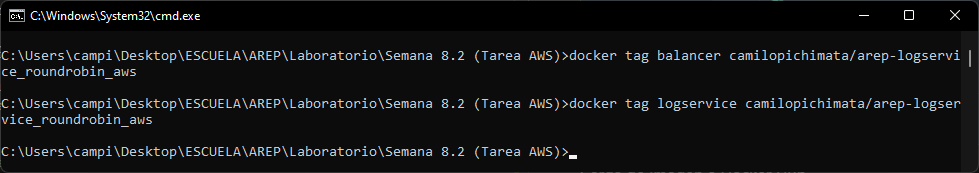
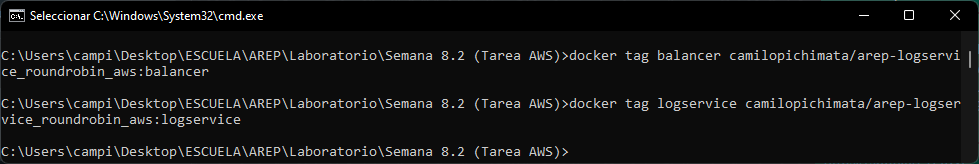
Actualización README.md

diff --git a/README.md b/README.md
@@ -47,7 +47,72 @@ Con el comando `docker images` se puede revisar que las imagenes fueron contruid
 
 ![](img/docker_images.png)
 
-Luego de creadas las imágenes mediante el archivo [docker-compose.yml]() se genera una configuración auntomática para docker al ejecutar el siguiente comando: 
+Luego de creadas las imágenes, se genera una configuración auntomática usando el archivo ***docker-compose.yml*** que se muestra a continuación:
+
+```yml
+# docker-compose.yml
+version: '2'
+
+services:
+    balancer:
+        environment:
+            - PORT=34000
+        build:
+            context: ./Balancer
+            dockerfile: Dockerfile
+        container_name: balancer
+        ports:
+            - "34000:4567"
+        links:
+            - logservice1
+            - logservice2
+            - logservice3
+
+    logservice1:
+        environment:
+            - PORT=34001
+        build:
+            context: ./LogService
+            dockerfile: Dockerfile
+        container_name: logservice1
+        links:
+            - db
+    
+    logservice2:
+        environment:
+            - PORT=34002
+        build:
+            context: ./LogService
+            dockerfile: Dockerfile
+        container_name: logservice2
+        links:
+            - db
+    
+    logservice3:
+        environment:
+            - PORT=34003
+        build:
+            context: ./LogService
+            dockerfile: Dockerfile
+        container_name: logservice3
+        links:
+            - db
+    
+    db:
+        image: mongo:3.6.1
+        container_name: db
+        volumes:
+            - mongodb:/data/db
+            - mongodb_config:/data/configdb
+        command: mongod
+        
+volumes:
+    mongodb:
+    mongodb_config:
+
+```
+
+Para implementar la configuración anterior en docker se ejecuta el siguiente comando: 
 
 ```bash
 # Configuración automática con archivo docker-compose.yml
@@ -81,17 +146,17 @@ Se crea una referencia a las imágenes de manera local con el nombre del reposit
 
 ```bash
 # Balanceador de carga
-docker tag balancer camilopichimata/arep-logservice_roundrobin_aws
+docker tag balancer camilopichimata/arep-logservice_roundrobin_aws:balancer
 
 # LogService
-docker tag logservice camilopichimata/arep-logservice_roundrobin_aws
+docker tag logservice camilopichimata/arep-logservice_roundrobin_aws:logservice
 ```
 
 La ejecución de los comandos se puede visualizar en la siguiente imagen:
 
 ![](img/docker_reflocal_repo.png)
 
-Se comprueba que se haya creado la referencia local al repositorio con el comando `docker images`:
+Se comprueba que se hayan creado las referencias locales al repositorio con el comando `docker images`:
 
 ![](img/docker_reflocal_repo_2.png)
 
@@ -99,19 +164,253 @@ Se realiza la autenticación de la cuenta de Docker Hub en caso de ser necesario
 
 ![](img/docker_login.png)
 
-Luego de esto, se realiza en envío de la imagen al repositorio utilizando el siguiente comando:
+Luego de esto, se realiza en envío de las imágenes al repositorio ejecutando los siguientes comandos:
 
 ```bash
-docker push camilopichimata/arep-logservice_roundrobin_aws:latest
+# Balanceador de carga
+docker push camilopichimata/arep-logservice_roundrobin_aws:balancer
+
+#LogService
+docker push camilopichimata/arep-logservice_roundrobin_aws:logservice
 ```
 
 La salida mostrada en la consola es la siguiente:
 
+- LogService
+
 ![](img/docker_push.png)
 
-Verificamos que se visualice el push realizado en el repositorio:
+- Balanceador de carga
+
+![](img/docker_push_2.png)
+
+Verificamos que se visualicen los push realizados en el repositorio:
 
 ![](img/docker_repositorio_2.png)
 
+Se procede a realizar el despliegue en AWS.
+
 ## Despliegue AWS
 
+Se ingresa al curso en `awsacademy.instructure.com` en la sección _modules_ y en _Learner Lab - Foundational Services_, y se da click en el botón **Start Lab**, luego clickeamos en en donde dice AWS después de que el puntico se ha puesto de color verde.
+
+Luego de esto llegamos a la página de inicio de la consola, donde damos click en buscar, ingresamos **EC2** y seleccionamos la primera opción:
+
+![](img/AWS_1.png)
+
+Al cargarse la siguiente página buscamos la opción para lanzar una nueva instancia e ingresamos ahí:
+
+![](img/AWS_2.png)
+
+Seleccionamos la imagen a utilizar, en este caso la segunda opción
+
+![](img/AWS_3.png)
+
+Seleccionamos el tipo de instancia a utilizar
+
+![](img/AWS_4.png)
+
+Revisamos los detalles de la instancia y damos click en el botón **Lanzar**
+
+![](img/AWS_5.png)
+
+Creamos un par de claves, lo descargamos y damos click en el botón **Lanzar instancias**
+
+![](img/AWS_6.png)
+
+Esperamos a que se lance la instancia
+
+![](img/AWS_7.png)
+
+Luego de esto llegamos a una página en la que se muestra el estado de la instancia y damos click en el botón **Ver instancias**, al cargar la nueva página podemos ver que la instancia se encuentra en ejecución
+
+![](img/AWS_8.png)
+
+Si damos click en el ID de la instancia se pueden visualizar todos los datos de esta
+
+![](img/AWS_9.png)
+
+Al dar click en el botón **Conectar** vemos la información necesaria para conectarse a la instancia y en la pestaña **Cliente SSH** los pasos para realizar la conexión por medio de SSH
+
+![](img/AWS_10.png)
+
+Para conectarnos untilizaremos el siguiente comando:
+
+```bash
+# Conectar a la instancia
+ssh -i "Key.pem" ec2-user@ec2-18-233-9-55.compute-1.amazonaws.com
+```
+
+El comando anterior se debe ejecutar en el mismo directorio en el que guardamos la llave descargada. Después de ejecutar el comando nos conectamos a la instancia y obtenemos lo siguiente:
+
+![](img/AWS_11.png)
+
+Ejecutamos los siguiente comandos para instalar docker en la instancia creada:
+
+```bash
+# Instalar docker 
+sudo yum update -y
+sudo yum install docker
+```
+
+Ejecutamos los comandos y cuando se solicite la confirmación de la instalación del paquete ingresamos `y` y damos enter
+
+![](img/AWS_12.png)
+
+Esperamos a que se termine la instalación y ejecutamos el siguiente comando para iniciar el servicio de docker
+
+```bash
+# Iniciar servicio de docker
+sudo service docker start
+```
+
+![](img/AWS_13.png)
+
+Se configura el usuario en el grupo de docker para no ingresar "sudo" cada vez que se invoque un comando, para esto se ejecuta el siguiente comando:
+
+```bash
+# Incluir al ususario en el grupo de usuarios de docker
+sudo usermod -a -G docker ec2-user
+```
+
+Nos desconectamos y volvemos a conectarmos para que la configuración tome efecto, seguido a esto, procedemos a crear las instancias trayendo las imágenes del repositorio, para esto como primera opción podemos utilizar los siguientes comandos:
+
+```bash
+# Traer imagenes del balanceador de carga
+# - Balanceador de carga
+docker run -d -p 35000:4567 --name balancer camilopichimata/arep-logservice_roundrobin_aws:balancer
+
+# - LogService (Tres instancias)
+docker run -d --name logservice camilopichimata/arep-logservice_roundrobin_aws:logservice
+
+# - Base de datos Mongo
+docker run -d --name bd mongo:3.6.1
+```
+
+Como segunda opción se puede utilizar la configuración especificada en el archivo ***docker-compose.yml***, en este caso se realizará de esta forma, para esto se modificó con el fin de que descargue la base de datos desde el repositorio, quedando de la siguiente manera: 
+
+```yml
+# docker-compose.yml
+version: '2'
+
+services:
+    balancer:
+        environment:
+            - PORT=34000
+        image: camilopichimata/arep-logservice_roundrobin_aws:balancer
+        container_name: balancer
+        ports:
+            - "34000:4567"
+        links:
+            - logservice1
+            - logservice2
+            - logservice3
+
+    logservice1:
+        environment:
+            - PORT=34001
+        image: camilopichimata/arep-logservice_roundrobin_aws:logservice
+        container_name: logservice1
+        links:
+            - db
+    
+    logservice2:
+        environment:
+            - PORT=34002
+        image: camilopichimata/arep-logservice_roundrobin_aws:logservice
+        container_name: logservice2
+        links:
+            - db
+    
+    logservice3:
+        environment:
+            - PORT=34003
+        image: camilopichimata/arep-logservice_roundrobin_aws:logservice
+        container_name: logservice3
+        links:
+            - db
+    
+    db:
+        image: mongo:3.6.1
+        container_name: db
+        volumes:
+            - mongodb:/data/db
+            - mongodb_config:/data/configdb
+        command: mongod
+        
+volumes:
+    mongodb:
+    mongodb_config:
+    
+```
+
+Para poder usar este archivo se debe cargar en el servidor, esto se hace mediante sftp al que nos conectamos ejecutando el siguiente comando:
+
+```bash
+sftp -i "Key.pem" ec2-user@ec2-52-91-70-70.compute-1.amazonaws.com
+```
+
+Para cargar el archivo se emplea el comando `put` como se puede ver a continuación:
+
+![](img/AWS_SFTP.png)
+
+Salimos de sftp con el comando `exit` y volvemos a conectarnos mediante ssh.
+
+Debido a que en el servidor no se encuentra el comando `docker-compose` este debe ser instalado, para eso se ejecutan los siguientes comandos:
+
+```bash 
+# Instalar docker-compose
+sudo curl -L "https://github.com/docker/compose/releases/download/1.29.2/docker-compose-$(uname -s)-$(uname -m)" -o /usr/local/bin/docker-compose
+
+# Dar permisos de ejecución
+sudo chmod +x /usr/local/bin/docker-compose
+
+# Se verifica la instalación
+docker-compose --version
+```
+
+La instalación se llevó a cabo de la siguiente manera:
+
+![](img/AWS_14.png)
+
+Una vez instalado el comando `docker-compose` y acargado el archivo `yml` este se ejcuta de la siguiente manera:
+
+```bash
+docker-compose up -d
+```
+
+En la salida obtenida se puede ver que se iniciaron los contenedores especificados el el archivo `yml`, como se puede ver a continuación:
+
+![](img/AWS_15.png)
+
+Para poderse conectar a la página web se debe habilitar el puerto especificado en este caso el puerto **34000**
+
+Para hacer esto se parte del _Panel de EC2_, se ingresa a _Instancias en ejecución_, se da click en el _ID de la instancia_, se desplaza la página hacia abajo y se ingresa a la pestaña _Seguridad_ como se puede ver en la siguiente imagen:
+
+![](img/AWS_16.png)
+
+Luego de esto se ingresa al grupo de seguridad que se puede visualizar en ese apartado de la imagen anterior, ahí se pueden visualizar las propiedades del grupo de seguridad especificado, y se encuentran las _Reglas de entrada_, damos click en el botón **Editar reglas de entrada** que se ve en la parte inferior
+
+![](img/AWS_17.png)
+
+En esta parte damos click en el botón **Agregar regla** e ingresamos la segunda regla tal como se ve en la siguiente imagen especificando el puerto y definiendo que cualquier dirección ipv4 pueda acceder por este puerto
+
+![](img/AWS_18.png) 
+
+Seguido a esto damos click en el botón **Guardar reglas** que nos lleva a la página anterior y nos muestra un mensaje indicando que las reglas de entrada se guardaron correctamente
+
+![](img/AWS_19.png)
+
+Al desplazarnos hacia abajo, se pueden visualizar las dos reglas de entrada configuradas
+
+![](img/AWS_20.png)
+
+Finalmente se podrá acceder a la página por medio de la siguiente dirección:
+
+```bash
+http://ec2-52-91-70-70.compute-1.amazonaws.com:34000/LogService
+```
+
+**Página web:**
+
+![](img/Pagina.png)
